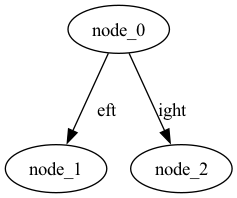
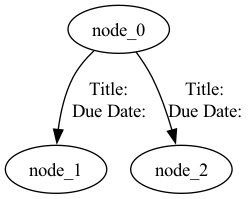
deleted unused functions in st.cpp

diff --git a/edstem/integration/storage/bh.cpp b/edstem/integration/storage/bh.cpp
@@ -187,8 +187,6 @@ system(("open " + folderPath + "binary_heap.png").c_str());
 
 // Helper function to visualize the binary heap recursively
 void BinaryHeap::visualizeHelper(EATNode* node, std::ofstream& file, int index) {
-
-
   if (node != nullptr) { // Only proceed if the node is not null
     int left = 2 * index + 1;
     int right = 2 * index + 2;
@@ -196,18 +194,29 @@ void BinaryHeap::visualizeHelper(EATNode* node, std::ofstream& file, int index) 
     // Create edges for left and right children (even if null)
     file << "node_" << index << " -> ";
     if (left < heapSize) {
-      file << "node_" << left;
+      // Create a temporary string to represent lesson information
+      std::string lessonInfo = "Title: " + node->data.second.first[4] + "\n";  // Assuming title is at index 4
+      lessonInfo += "Due Date: " + node->data.second.first[1] + "\n";  // Assuming due date is at index 1
+
+      file << "node_" << left << " [label=\"" << lessonInfo << "\"];" << std::endl;
     } else {
       file << "null";  // Indicate empty child
     }
-    file << " [label=\"\\left\"];" << std::endl;  // Escape "left" with backslash
+    file << std::endl;
 
     file << "node_" << index << " -> ";
     if (right < heapSize) {
-      file << "node_" << right;
+      // Create a temporary string to represent lesson information
+      std::string lessonInfo = "Title: " + node->data.second.first[4] + "\n";  // Assuming title is at index 4
+      lessonInfo += "Due Date: " + node->data.second.first[1] + "\n";  // Assuming due date is at index 1
+
+      file << "node_" << right << " [label=\"" << lessonInfo << "\"];" << std::endl;
     } else {
       file << "null";  // Indicate empty child
     }
-    file << " [label=\"\\right\"];" << std::endl; // Escape "right" with backslash
+    file << std::endl;
+
+    visualizeHelper(node->left, file, left);
+    visualizeHelper(node->right, file, right);
   }
 }

diff --git a/edstem/integration/storage/st.h b/edstem/integration/storage/st.h
@@ -19,18 +19,17 @@ class SplayTree{
 
     EATNode* root;
     void splay(EATNode* node);
-    EATNode* findNode(int key);
     void rotateRight(EATNode* node);
     void rotateLeft(EATNode* node);
     void deleteSplayTree(EATNode* node);
     void inorderTraversal(EATNode* node);
     EATNode* searchRecursive(EATNode* node, int key);
     void visualizeHelper(EATNode* node, std::ofstream& file);
-
     bool isBalanced(EATNode* node);
     int getHeight(EATNode* node);
     
     public:
+    
     /*
     Public Members
     Constructor: Initializes the root of the splay tree to nullptr
@@ -44,13 +43,11 @@ class SplayTree{
     SplayTree();
     ~SplayTree();
     void insert(EATNode* node);
-    void remove(int key);
     EATNode* search(int key);
     void printSplayTree();
     void add_bh_pointer(int key, void* ptr);
     void* get_bh_pointer(int key);
     void visualize();
-
     bool isBalanced();
 };
 

diff --git a/edstem/integration/storage/st.cpp b/edstem/integration/storage/st.cpp
@@ -55,12 +55,6 @@ void SplayTree::splay(EATNode* node) {
     root = node;
 }
 
-// Find node function
-EATNode* SplayTree::findNode(int key) {
-    // Implement findNode function
-    return nullptr;
-}
-
 // Rotate right function
 void SplayTree::rotateRight(EATNode* node) {
     // Make sure node and its left child are not nullptr
@@ -138,11 +132,6 @@ void SplayTree::insert(EATNode* node) {
     }
     node->parent = parent;
     splay(node);
-}
-
-// Remove function
-void SplayTree::remove(int key) {
-    // Implement remove function
 }
 
 // Search function

diff --git a/edstem/integration/storage/avl.cpp b/edstem/integration/storage/avl.cpp
@@ -216,7 +216,6 @@ void AVLTree::deleteAllNodes(EATNode* node) {
     delete node;
 }
 
-
 // Balance check function
 bool AVLTree::isBalanced(EATNode* node) {
     if (node == nullptr) {
